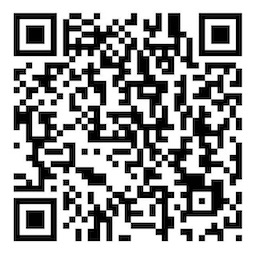
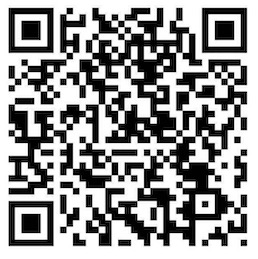
修改群二维码

diff --git a/app/src/main/java/com/aserbao/aserbaosandroid/functions/events/onTouch/double_recycler_nest/NestItemViewHolder.java b/app/src/main/java/com/aserbao/aserbaosandroid/functions/events/onTouch/double_recycler_nest/NestItemViewHolder.java
@@ -2,10 +2,12 @@ package com.aserbao.aserbaosandroid.functions.events.onTouch.double_recycler_nes
 
 import android.app.Activity;
 import android.content.Context;
+import android.support.annotation.NonNull;
 import android.support.v4.widget.SwipeRefreshLayout;
 import android.support.v7.widget.LinearLayoutManager;
 import android.support.v7.widget.PagerSnapHelper;
 import android.support.v7.widget.RecyclerView;
+import android.util.Log;
 import android.view.View;
 import android.widget.ImageView;
 import android.widget.Toast;
@@ -36,7 +38,7 @@ public class NestItemViewHolder extends BaseViewHolder implements IBaseRecyclerI
     @BindView(R.id.nest_rv_item)
     ImageView mNestRvItem;
     @BindView(R.id.nest_rv_item_rv)
-    RecyclerView mNestRvItemRv;
+    CustomItemRecyclerView mNestRvItemRv;
     @BindView(R.id.nest_rv_item_swipe_refresh_layout)
     SwipeRefreshLayout mNestRvItemSwipeRefreshLayout;
 
@@ -55,12 +57,29 @@ public class NestItemViewHolder extends BaseViewHolder implements IBaseRecyclerI
             mBaseRecyclerBeen.add(new BaseRecyclerBean(String.valueOf(i)));
         }
         BaseRecyclerViewActivityAdapter mCommonAdapter = new BaseRecyclerViewActivityAdapter(context, (Activity) context, mBaseRecyclerBeen, this);
-        LinearLayoutManager linearLayoutManager = new LinearLayoutManager(context, LinearLayoutManager.VERTICAL, false);
+        LinearLayoutManager linearLayoutManager = new LinearLayoutManager(context, LinearLayoutManager.VERTICAL, true);
         mNestRvItemRv.setLayoutManager(linearLayoutManager);
         mNestRvItemRv.setAdapter(mCommonAdapter);
         mNestRvItemRv.setBackgroundResource(ImageSource.getRandomImageId());
         mNestRvItemSwipeRefreshLayout.setOnRefreshListener(this);
 
+        mNestRvItemRv.addOnScrollListener(new RecyclerView.OnScrollListener() {
+            @Override
+            public void onScrollStateChanged(@NonNull RecyclerView recyclerView, int newState) {
+                super.onScrollStateChanged(recyclerView, newState);
+            }
+
+            @Override
+            public void onScrolled(@NonNull RecyclerView recyclerView, int dx, int dy) {
+                super.onScrolled(recyclerView, dx, dy);
+                int firstVisibleItemPosition = linearLayoutManager.findLastCompletelyVisibleItemPosition();
+                if (mCommonAdapter.getItemCount() - 1 == firstVisibleItemPosition){
+                    mNestRvItemRv.setmIsTop(true);
+                }else{
+                    mNestRvItemRv.setmIsTop(false);
+                }
+            }
+        });
         mNestRvItem.setOnLongClickListener(new View.OnLongClickListener() {
             @Override
             public boolean onLongClick(View v) {

diff --git a/app/src/main/java/com/aserbao/aserbaosandroid/functions/events/onTouch/double_recycler_nest/CustomItemRecyclerView.java b/app/src/main/java/com/aserbao/aserbaosandroid/functions/events/onTouch/double_recycler_nest/CustomItemRecyclerView.java
@@ -3,8 +3,10 @@ package com.aserbao.aserbaosandroid.functions.events.onTouch.double_recycler_nes
 import android.content.Context;
 import android.support.annotation.NonNull;
 import android.support.annotation.Nullable;
+import android.support.v7.widget.LinearLayoutManager;
 import android.support.v7.widget.RecyclerView;
 import android.util.AttributeSet;
+import android.util.Log;
 import android.view.MotionEvent;
 
 /**
@@ -16,6 +18,9 @@ import android.view.MotionEvent;
  * @package:com.aserbao.aserbaosandroid.functions.events.onTouch.double_recycler_nest
  */
 public class CustomItemRecyclerView extends RecyclerView {
+    private static final String TAG = "CustomItemRecyclerView";
+    private float mStartRawY;
+
     public CustomItemRecyclerView(@NonNull Context context) {
         super(context);
     }
@@ -26,6 +31,11 @@ public class CustomItemRecyclerView extends RecyclerView {
 
     public CustomItemRecyclerView(@NonNull Context context, @Nullable AttributeSet attrs, int defStyle) {
         super(context, attrs, defStyle);
+        init();
+    }
+
+    private void init() {
+
     }
 
     @Override
@@ -40,5 +50,41 @@ public class CustomItemRecyclerView extends RecyclerView {
                 break;
         }
         return super.dispatchTouchEvent(ev);
+    }
+
+
+    private  boolean mIsTop = false;
+
+    public void setmIsTop(boolean mIsTop) {
+        Log.e(TAG, "setmIsTop: " + mIsTop );
+        this.mIsTop = mIsTop;
+    }
+
+    @Override
+    public boolean onTouchEvent(MotionEvent e) {
+        switch (e.getAction()) {
+            case MotionEvent.ACTION_DOWN:
+                mStartRawY = e.getRawY();
+                Log.e(TAG, "onTouchEvent: ACTION_DOWN = " + mStartRawY);
+                break;
+            case MotionEvent.ACTION_MOVE:
+//                return true;
+                if (mIsTop){
+                    float chaY = e.getRawY() - mStartRawY;
+                    if (chaY > 0){
+                        Log.e(TAG, "onTouchEvent: ACTION_MOVE 向下滑 距离为 = "+ chaY + "\t"+ mIsTop + "\t"+ mStartRawY);
+
+                        return true;
+                    }
+                    Log.e(TAG, "onTouchEvent: ACTION_MOVE "+ chaY + "\t"+ mIsTop + "\t"+ mStartRawY);
+                }
+                break;
+            case MotionEvent.ACTION_UP:
+            case MotionEvent.ACTION_CANCEL:
+                getParent().requestDisallowInterceptTouchEvent(false);
+                break;
+        }
+//        return true;
+        return super.onTouchEvent(e);
     }
 }

diff --git a/app/src/main/java/com/aserbao/aserbaosandroid/test/TestActivity.java b/app/src/main/java/com/aserbao/aserbaosandroid/test/TestActivity.java
@@ -45,40 +45,10 @@ public class TestActivity extends AppCompatActivity {
 
     @OnClick({R.id.test_btn, R.id.test_btn2})
     public void onViewClicked() {
-        Toast.makeText(this, "被点击了", Toast.LENGTH_SHORT).show();
+        String result = "thisisan你到底要干啥";
+        int length = result.toCharArray().length;
+        Toast.makeText(this,String.valueOf(length), Toast.LENGTH_SHORT).show();
     }
 
-    public void addView() {
-    }
-    public int count = 10 * 10000;
-    public int num = 0;
-    @OnClick({R.id.test_btn, R.id.test_btn2})
-    public void onViewClicked(View view) {
-        switch (view.getId()) {
-            case R.id.test_btn:
-                mStartTime = System.currentTimeMillis();
-                num = 0;
-                new Thread(new Runnable() {
-                    @Override
-                    public void run() {
-                        for (int i = 0; i < count; i++) {
-                            num++;
-                            runOnUiThread(new Runnable() {
-                                @Override
-                                public void run() {
-                                    if (count - 1 == num){
-                                        Log.e(TAG, "运行"+count + "条数据 一共耗时：" + (System.currentTimeMillis() - mStartTime)/1000 + "s" );
-                                    }
-                                    Log.e(TAG, "run: " + String.valueOf(num));
-                                }
-                            });
-                        }
-                    }
-                }).start();
-                break;
-            case R.id.test_btn2:
-                addView();
-                break;
-        }
-    }
+
 }

diff --git a/app/src/main/java/com/aserbao/aserbaosandroid/ui/recyclerView/RecyclerViewActivity.java b/app/src/main/java/com/aserbao/aserbaosandroid/ui/recyclerView/RecyclerViewActivity.java
@@ -3,6 +3,8 @@ package com.aserbao.aserbaosandroid.ui.recyclerView;
 
 import com.aserbao.aserbaosandroid.base.BaseActivity;
 import com.aserbao.aserbaosandroid.base.beans.ClassBean;
+import com.aserbao.aserbaosandroid.functions.events.onTouch.double_recycler_nest.DoubleRecyclerNestActivity;
+import com.aserbao.aserbaosandroid.functions.events.recyclerviewEvent.RecyclerViewEventActivity;
 import com.aserbao.aserbaosandroid.ui.recyclerView.addItemRecyclerView.AddRecyclerViewActivity;
 import com.aserbao.aserbaosandroid.ui.recyclerView.moveToDeleteRecyclerView.MoveToDeleteActivity;
 import com.aserbao.aserbaosandroid.ui.recyclerView.scale_smooth_slide.ScaleSmoothSlideActivity;
@@ -17,5 +19,7 @@ public class RecyclerViewActivity extends BaseActivity {
         mClassBeen.add(new ClassBean("左右滑动的RecyclerView", ScaleSmoothSlideActivity.class));
         mClassBeen.add(new ClassBean("空白的RecyclerView", AddRecyclerViewActivity.class));
         mClassBeen.add(new ClassBean("滑动的RecyclerView", SmoothActivitiy.class));
+        mClassBeen.add(new ClassBean("RecyclerView滚动冲突处理", RecyclerViewEventActivity.class));
+        mClassBeen.add(new ClassBean("RecyclerView嵌套冲突处理", DoubleRecyclerNestActivity.class));
     }
 }

diff --git a/app/src/main/java/com/aserbao/aserbaosandroid/HomeActivity.java b/app/src/main/java/com/aserbao/aserbaosandroid/HomeActivity.java
@@ -18,6 +18,7 @@ import com.aserbao.aserbaosandroid.base.adapters.BaseActivityAdapter;
 import com.aserbao.aserbaosandroid.base.beans.ClassBean;
 import com.aserbao.aserbaosandroid.designMode.DesignModeActivity;
 import com.aserbao.aserbaosandroid.functions.FunctionsActivity;
+import com.aserbao.aserbaosandroid.functions.events.onTouch.double_recycler_nest.DoubleRecyclerNestActivity;
 import com.aserbao.aserbaosandroid.functions.ffmpeg.FFmpegActivity;
 import com.aserbao.aserbaosandroid.functions.iamgePhotoshop.blur.BlurImageActivity;
 import com.aserbao.aserbaosandroid.functions.network.mqtt.simple.SimpleMqttActivity;
@@ -68,7 +69,7 @@ public class HomeActivity extends AppCompatActivity {
         mClassBeen.add(new ClassBean("其他", OthersActivity.class));
         mClassBeen.add(new ClassBean("ffmpeg", FFmpegActivity.class));
         mClassBeen.add(new ClassBean("算法", AlgorithmActivity.class));
-        mClassBeen.add(new ClassBean("当前调试的界面", OkhttpActivity.class));
+        mClassBeen.add(new ClassBean("当前调试的界面", DoubleRecyclerNestActivity.class));
     }
 
     private void initView() {
